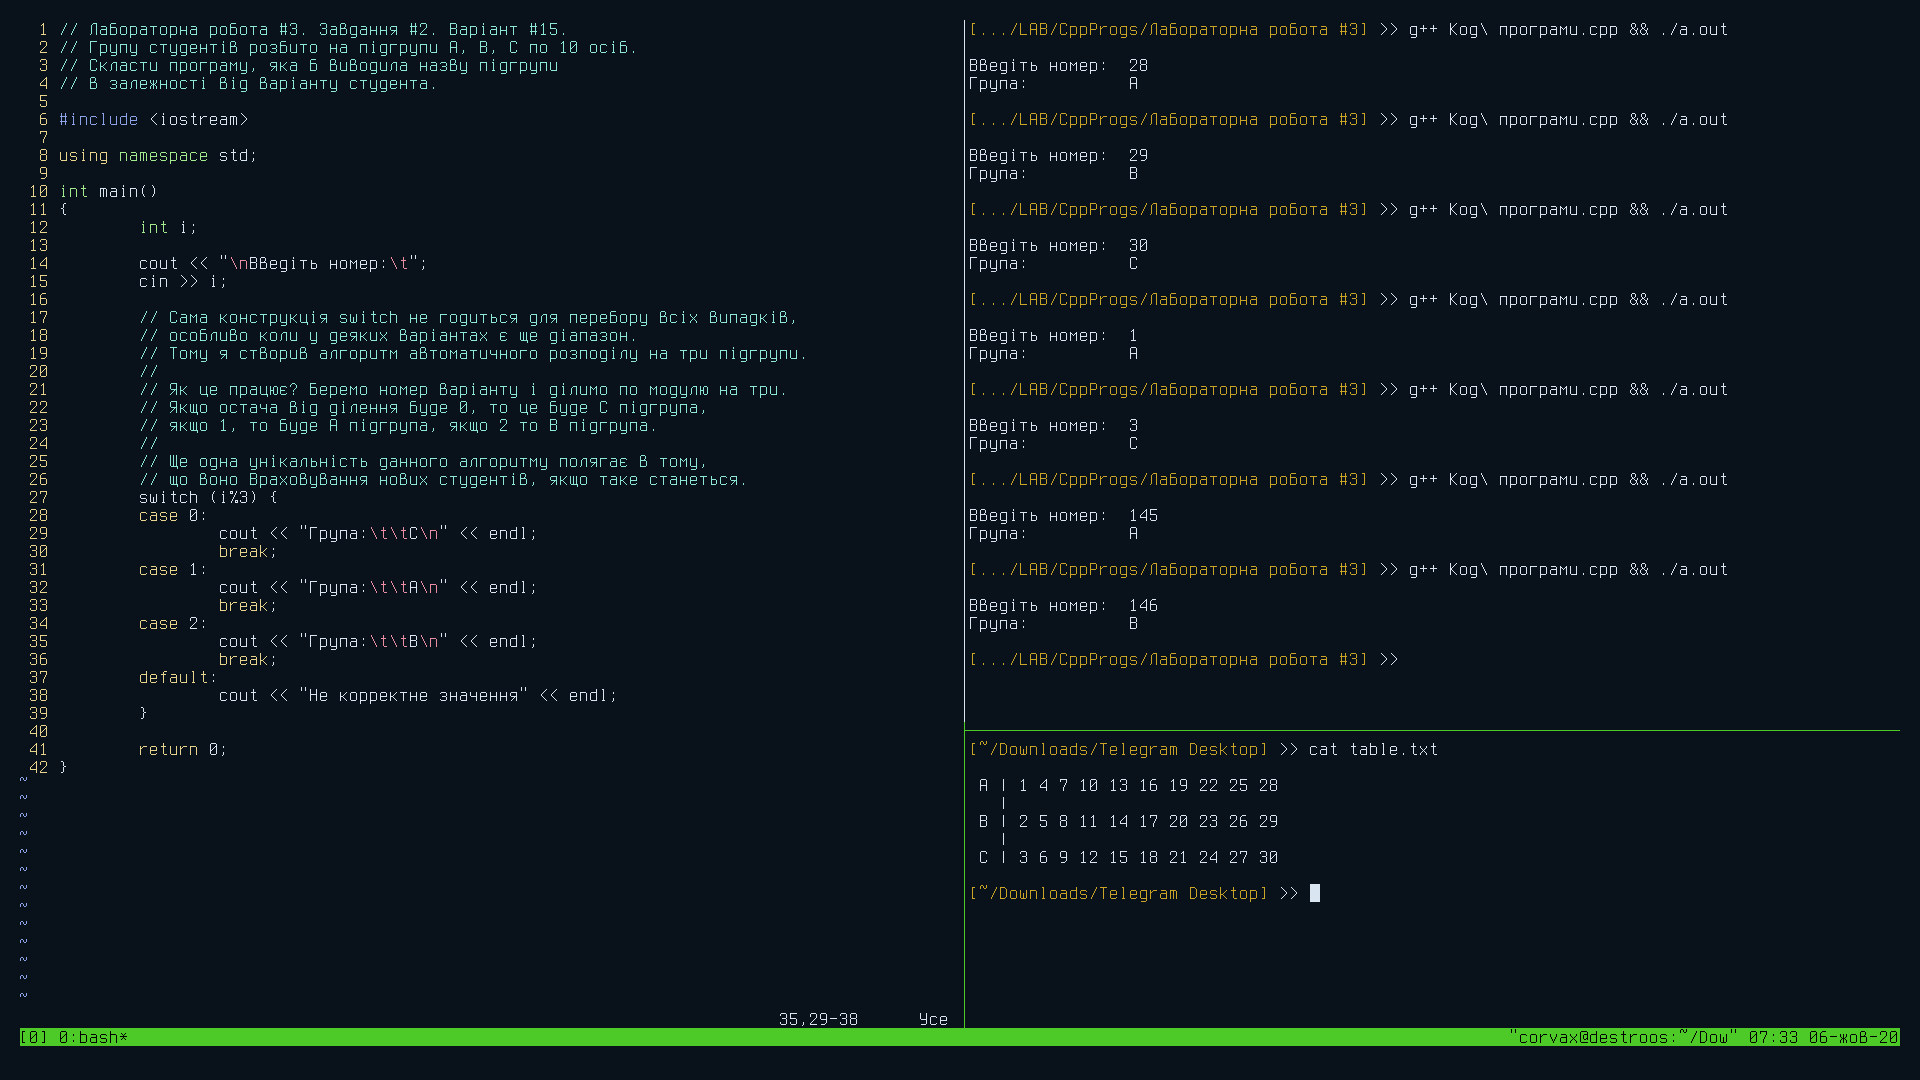
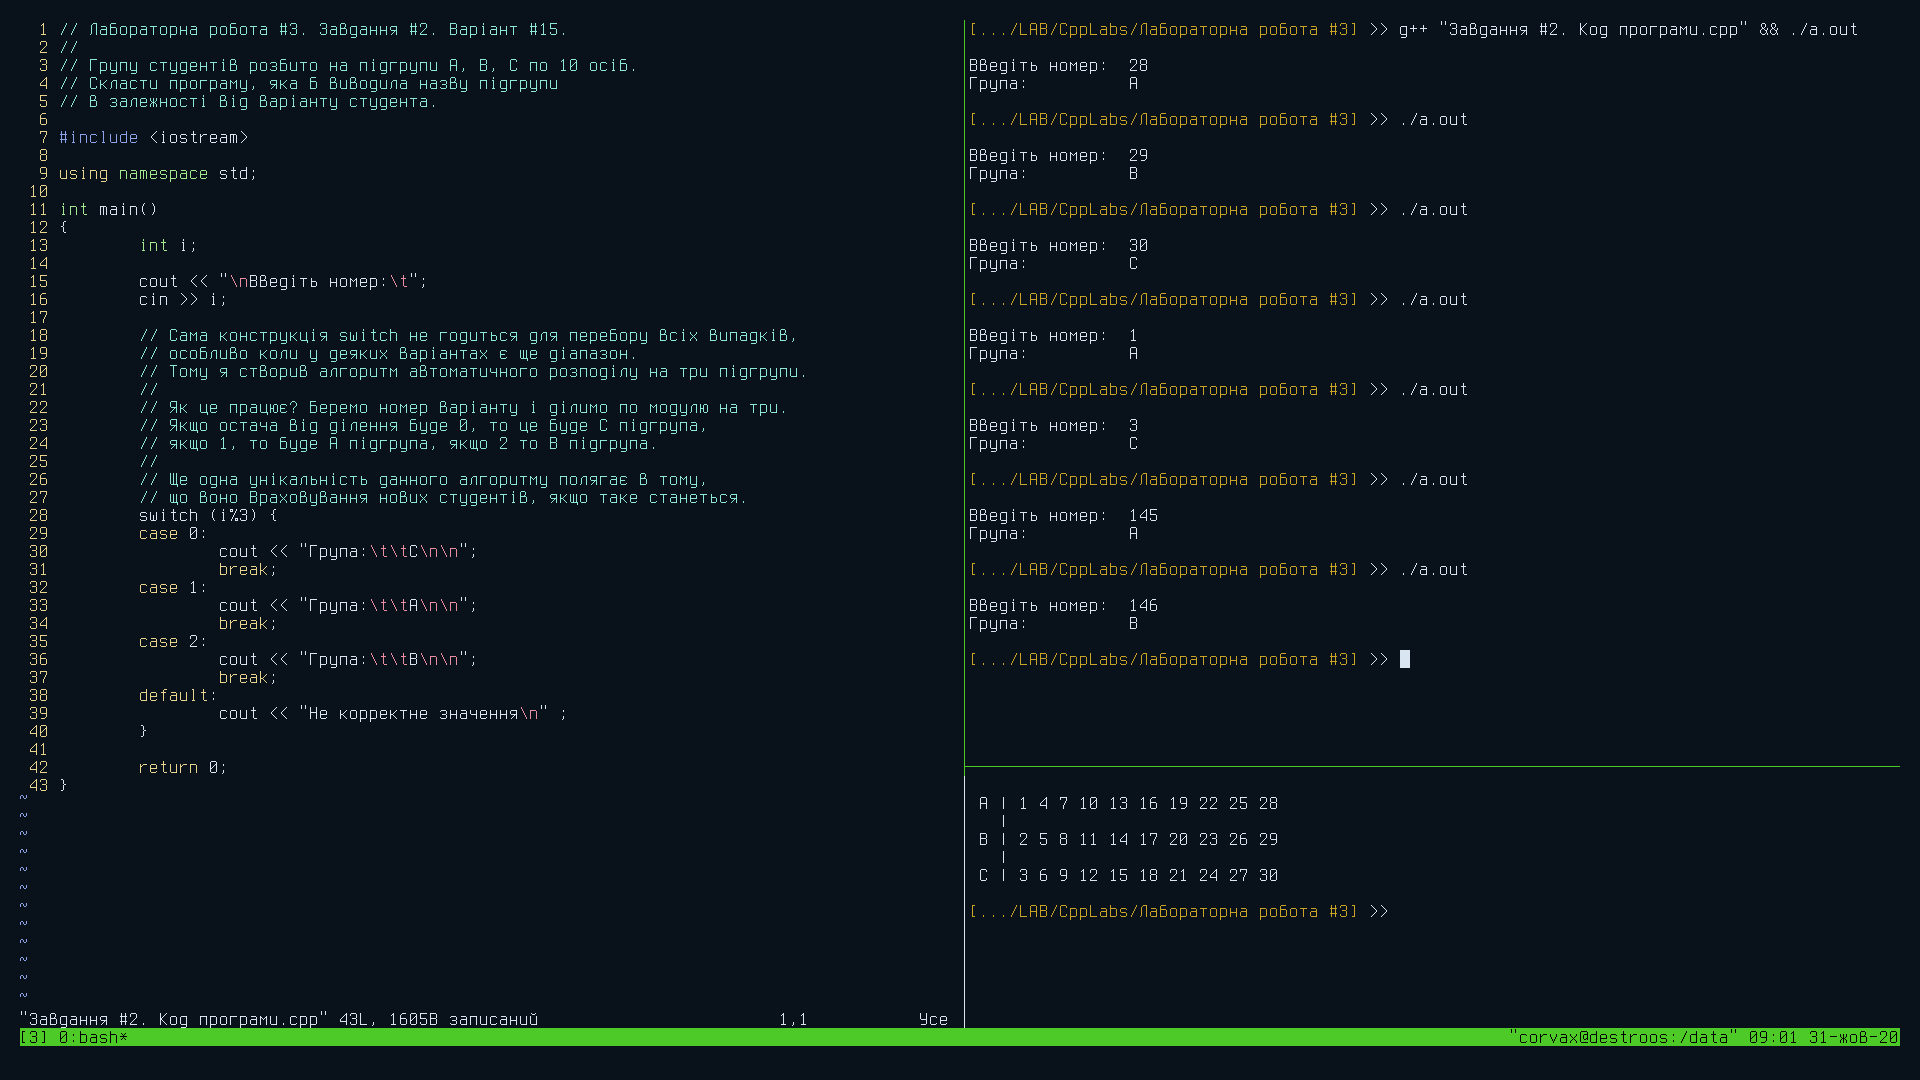
Виправлення помилок

diff --git a/Лабораторна робота #2/Завдання #1. Код програми.cpp b/Лабораторна робота #2/Завдання #1. Код програми.cpp
@@ -1,4 +1,4 @@
-// Лабораторна робота #2. Варіант #15 (складний рівень).
+// Лабораторна робота #2. Завдання #1. Варіант #15 (складний рівень).
 
 #include <iostream>
 #include <math.h>
@@ -22,16 +22,16 @@ int main()
 	double d = 12.45, n = 0.27;
 
 	// Виведення початкових значеннь.
-	cout << "\n  d = " << d << " | n = " << n << endl;
+	cout << "\n  d = " << d << " | n = " << n << "\n";
 
 	// Виведення першої формули та її результат розрахунків.
-	cout << "\n\n                     5 - ln | n + d |" << endl;
-	cout << "  F = sin (n + 8d) + ---------------- = " << F(d,n) << endl;
-	cout << "                           d - n" << endl;
+	cout << "\n\n                     5 - ln | n + d |\n";
+	cout << "  F = sin (n + 8d) + ---------------- = " << F(d,n) << "\n";
+	cout << "                           d - n\n";
 
 	// Виведення другої формули та її результат розрахунків.
 	// Для данної формули я додатково використав Unicode символи.
-	cout << "\n                \u23BD\u23BD\u23BD\u23BD\u23BD" << endl;
+	cout << "\n                \u23BD\u23BD\u23BD\u23BD\u23BD\n";
 	cout << "  h = e\u00B2\u207F + 4d \u221A3 + n = " << h(d,n) << "\n\n";
 
 	return 0;

diff --git a/Лабораторна робота #2/Завдання #2. Код програми.cpp b/Лабораторна робота #2/Завдання #2. Код програми.cpp
@@ -1,4 +1,4 @@
-// Лабораторна робота #2. Завдання #2 (складний варіант).
+// Лабораторна робота #2. Завдання #2. Варіант #15 (складний рівень).
 
 #include <iostream>
 #include <math.h>
@@ -25,15 +25,16 @@ int main()
 	double a = 0.57, b = 0.37, x = 0.01;
 
 	// Виводимо початкові значення.
-	cout << "\nA = " << a << "; B = " << b << "; X = " << x << endl;
+	cout << "\nA = " << a << "; B = " << b << "; X = " << x << "\n";
 
 	// Для більш простіших розрахунків я поділив формулу на пару частин.
 	// По-перше, для самостійних розрахунків.
 	// По-друге, для скорочення довгої формули.
-	cout << "Fx = " << Fx(a,x) << "; Fy = " << Fy(x) << "; Fz = " << Fz(b,x) << endl;
+	cout << "Fx = " << Fx(a,x) << "; Fy = " << Fy(x) << "; ";
+	cout << "Fz = " << Fz(b,x) << "\n";
 	cout << "Fx + Fy = " << Fx(a,x) + Fy(x) << "; ";
-	cout << "Fxy / Fz = " << ( Fx(a,x) + Fy(x) ) / Fz(b,x) << endl;
-	cout << "Y = " << ( Fx(a,x) + Fy(x) ) / Fz(b,x) << endl << endl;
+	cout << "Fxy / Fz = " << ( Fx(a,x) + Fy(x) ) / Fz(b,x) << "\n";
+	cout << "Y = " << ( Fx(a,x) + Fy(x) ) / Fz(b,x) << "\n\n";
 
 	return 0;
 }

diff --git a/Лабораторна робота #3/Завдання #2. Код програми.cpp b/Лабораторна робота #3/Завдання #2. Код програми.cpp
@@ -1,4 +1,5 @@
 // Лабораторна робота #3. Завдання #2. Варіант #15.
+//
 // Групу студентів розбито на підгрупи A, B, C по 10 осіб.
 // Скласти програму, яка б виводила назву підгрупи
 // в залежності від варіанту студента.
@@ -26,16 +27,16 @@ int main()
 	// що воно Враховування нових студентів, якщо таке станеться.
 	switch (i%3) {
 	case 0:
-		cout << "Група:\t\tC\n" << endl;
+		cout << "Група:\t\tC\n\n";
 		break;
 	case 1:
-		cout << "Група:\t\tA\n" << endl;
+		cout << "Група:\t\tA\n\n";
                 break;
 	case 2:
-		cout << "Група:\t\tB\n" << endl;
+		cout << "Група:\t\tB\n\n";
                 break;
 	default:
-		cout << "Не корректне значення" << endl;
+		cout << "Не корректне значення\n" ;
 	}
 
 	return 0;

diff --git a/Лабораторна робота #4/Завдання #2. Код програми.cpp b/Лабораторна робота #4/Завдання #2. Код програми.cpp
@@ -1,4 +1,4 @@
-// Лабораторна робота №4. Варіант #15. Завдання #2.
+// Лабораторна робота #4. Завдання #2. Варіант #15.
 
 #include <iostream>
 #include <math.h>
@@ -12,13 +12,13 @@ int main()
 	cout << "\nВведіть значення A: ";
 	cin >> a;
 
-	cout << "\nЦикл\tСумма\t\tДобуток\n" << endl;
+	cout << "\nЦикл\tСумма\t\tДобуток\n\n";
 
 	for(int i = 1; i <= 4; i++)
 	{
 		S += pow(a,i)+2*i;
 		D *= i+a*pow(i,2);
-		cout << i << "\t" << S << "\t\t" << D <<  endl;
+		cout << i << "\t" << S << "\t\t" << D << endl;
 	}
 
 	cout << endl;

diff --git a/Лабораторна робота #4/Завдання #1. Код програми.cpp b/Лабораторна робота #4/Завдання #1. Код програми.cpp
@@ -1,4 +1,4 @@
-// Лабораторна робота #4. Варіант #15. Завдання #1.
+// Лабораторна робота #4. Завдання #1. Варіант #15.
 
 #include <iostream>
 #include <math.h>
@@ -24,7 +24,7 @@ int main()
 
 	cout << "\nDO WHILE\n";
 
-	do{
+	do {
 		cout << "  Y = " << xB << "; Y = " << F(xB) << endl;
 		xB++;
 	} while(xB <= 30);

diff --git a/Лабораторна робота #5/Завдання #2. Код програми.cpp b/Лабораторна робота #5/Завдання #2. Код програми.cpp
@@ -18,7 +18,6 @@ int main()
 	// Нумерація елементів, які відповідають умові.
 	int Num = 1;
 
-	// Це пов'язано з тим, що при ділені залишається остача.
 	cout << "Введіть розмір масиву (парне число): ";
 	cin >> Size;
 

diff --git a/Лабораторна робота #3/Завдання #1. Код програми.cpp b/Лабораторна робота #3/Завдання #1. Код програми.cpp
@@ -13,9 +13,9 @@ int main()
 	cin >> x;
 
 	if(x <= y){
-		cout << "A = " << C * pow(x,2) + D * y << endl << endl;
+		cout << "A = " << C * pow(x,2) + D * y << "\n\n";
 	} else {
-		cout << "A = " << sqrt(x * y) + D * log(y) << endl << endl;
+		cout << "A = " << sqrt(x * y) + D * log(y) << "\n\n";
 	}
 
 	return 0;

diff --git a/Лабораторна робота #1/Код програми.cpp b/Лабораторна робота #1/Код програми.cpp
@@ -1,4 +1,4 @@
-// Лабораторна робота #1
+// Лабораторна робота #1.
 
 #include <iostream>
 #include <string>
